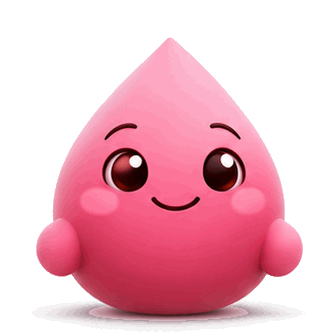
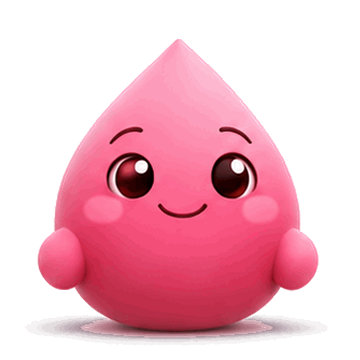
Cadi : 6 expressions selon la journée, animation de repos, nouvelle icône
Claude-Session: https://claude.ai/code/session_014Qi6w7WwDsBJMuCLvFmXQY

diff --git a/app.js b/app.js
@@ -89,11 +89,12 @@ function burst(pt, colors, n = 26, spread = 1.15) {
 }
 function hud(text, color, o = {}) {
   const h = document.createElement('div'); h.className = 'hud'; h.style.setProperty('--c', color);
-  const top = o.cadi ? `<span class="hud-cadi">${cadi({ size: 112, n: o.n || 7, done: o.n || 7, act: '', cls: 'hudc' })}<span class="hud-ok">${ic('check')}</span></span>`
+  const top = o.cadi ? `<span class="hud-cadi">${cadi({ size: 112, n: o.n || 7, done: o.n || 7, act: '', cls: 'hudc', expr: o.expr && !o.spin ? o.expr : '' })}<span class="hud-ok">${ic('check')}</span></span>`
     : `<svg viewBox="0 0 64 64" aria-hidden="true"><circle cx="32" cy="32" r="30"/><path d="M19 33l9 9 18-19"/></svg>`;
   h.innerHTML = `<div class="hud-in${o.cadi ? ' with-cadi' : ''}">${top}<b>${esc(text)}</b>${o.sub ? `<span class="hsub">${esc(o.sub)}</span>` : ''}</div>`;
   document.body.appendChild(h); haptic();
-  if (o.cadi) setTimeout(() => cadiSpin(h.querySelector('.cadi')), 120);
+  if (o.cadi && o.spin !== false) setTimeout(() => { const c = h.querySelector('.cadi'); if (o.expr) c.dataset.after = o.expr; cadiSpin(c); }, 120);
+  if (o.cadi && o.spin === false) { const c = h.querySelector('.cadi'); cadiJelly(c); }
   const d = o.cadi ? 1700 : 1150;
   setTimeout(() => h.classList.add('out'), REDUCED ? 800 : d); setTimeout(() => h.remove(), REDUCED ? 900 : d + 400);
 }
@@ -114,44 +115,74 @@ function haloSvg(n = 7, done = 5, cur = -1, late = false) {
   }
   return `<svg class="cadi-h" viewBox="0 0 100 100" aria-hidden="true">${r}</svg>`;
 }
-function cadi({ size = 64, n = 7, done = 5, cur = -1, late = false, mood = '', act = 'cadiPoke', cls = '' } = {}) {
-  return `<span class="cadi ${mood} ${cls}" style="--s:${size}px"${act ? ` data-act="${act}"` : ''} role="img" aria-label="Cadi, la mascotte de Cadence"><span class="cadi-b"><img class="still" src="cadi.png" alt="" draggable="false"><span class="spin"><img src="cadi-spin.webp" alt="" draggable="false"></span></span>${haloSvg(n, done, cur, late)}</span>`;
+const EXPR = ['calm', 'excited', 'worried', 'party', 'water', 'sleepy'];
+const exprSrc = e => EXPR.includes(e) ? `cadi-${e}.webp` : 'cadi.png';
+function cadi({ size = 64, n = 7, done = 5, cur = -1, late = false, mood = '', act = 'cadiPoke', cls = '', expr = '' } = {}) {
+  return `<span class="cadi ${mood} ${cls}" style="--s:${size}px" data-expr="${expr}" data-base="${expr}"${act ? ` data-act="${act}"` : ''} role="img" aria-label="Cadi, la mascotte de Cadence"><span class="cadi-b"><img class="still" src="${exprSrc(expr)}" alt="" draggable="false"><span class="idle"><img src="cadi-idle.webp" alt="" draggable="false" loading="lazy"></span><span class="spin"><img src="cadi-spin.webp" alt="" draggable="false"></span></span>${haloSvg(n, done, cur, late)}</span>`;
+}
+function setExpr(el, expr) {
+  if (!el) return; const img = el.querySelector('.still'), src = exprSrc(expr);
+  el.dataset.expr = expr || '';
+  if (img.getAttribute('src') === src) return;
+  if (REDUCED || !img.animate) { img.src = src; return; }
+  img.animate([{ transform: 'scale(1)', opacity: 1 }, { transform: 'scale(.86)', opacity: .2 }], { duration: 120, easing: 'ease-in' }).onfinish = () => { img.src = src; img.animate([{ transform: 'scale(.86)', opacity: .2 }, { transform: 'scale(1.06)', opacity: 1, offset: .6 }, { transform: 'scale(1)' }], { duration: 320, easing: 'cubic-bezier(.3,1.5,.5,1)' }); };
+}
+// De temps en temps, Cadi regarde autour d'elle (seulement dans son expression neutre).
+setInterval(() => {
+  if (REDUCED || document.hidden) return;
+  $$('.cadi:not(.spinning):not(.idling)').filter(c => !c.dataset.expr && c.offsetParent && Math.random() < .6).forEach(c => {
+    c.classList.add('idling'); const img = c.querySelector('.idle img');
+    const end = () => c.classList.remove('idling'); img.addEventListener('animationend', end, { once: true }); setTimeout(end, 2600);
+  });
+}, 6500);
+function cadiMood(t) {
+  const st = t ? status(t) : null, g = S.goals;
+  if (S.symptoms.some(s => s.level === 3 && daysBetween(s.date, today()) <= 1) || S.symptoms.filter(s => isEffect(s.type) && s.date === today() && s.level >= 2).length >= 2) return 'sleepy';
+  if (st && st.last && st.dueIn < 0) return 'worried';
+  if (st && st.last && st.dueIn === 0) return 'excited';
+  if (S.intake.some(i => i.date === today()) && ['p', 'w', 'f'].every(k => !(g[k] > 0) || intake(k) >= g[k])) return 'party';
+  if (S.symptoms.some(s => s.type === GOOD && s.date === today())) return 'calm';
+  return '';
 }
 function cadiFor(t, size = 60) {
-  if (!t) return cadi({ size, act: 'cadi' });
+  const expr = cadiMood(t);
+  if (!t) return cadi({ size, act: 'cadi', expr });
   const st = status(t);
-  if (!st.last) return cadi({ size, n: interval(t), done: 0, cur: 0, act: 'cadi' });
+  if (!st.last) return cadi({ size, n: interval(t), done: 0, cur: 0, act: 'cadi', expr });
   const late = st.dueIn < 0, due = st.dueIn === 0, n = st.n;
-  return cadi({ size, n, done: late || due ? n : Math.min(st.elapsed, n), cur: late || due ? -1 : st.elapsed, late, mood: late ? 'late' : due ? 'due' : '', act: 'cadi' });
+  return cadi({ size, n, done: late || due ? n : Math.min(st.elapsed, n), cur: late || due ? -1 : st.elapsed, late, mood: late ? 'late' : due ? 'due' : '', act: 'cadi', expr });
 }
 function cadiSpin(el) {
   if (!el || REDUCED) return;
   el.classList.remove('spinning', 'jelly'); void el.offsetWidth; el.classList.add('spinning');
-  const img = el.querySelector('.spin img'); img.addEventListener('animationend', () => el.classList.remove('spinning'), { once: true });
+  const img = el.querySelector('.spin img'); img.addEventListener('animationend', () => { el.classList.remove('spinning'); if (el.dataset.after !== undefined) { setExpr(el, el.dataset.after); delete el.dataset.after; } }, { once: true });
 }
 function cadiJelly(el) { if (!el || REDUCED) return; el.classList.remove('jelly'); void el.offsetWidth; el.classList.add('jelly'); setTimeout(() => el.classList.remove('jelly'), 700); }
 let cadiTaps = 0, sayTimer;
-function say(text) {
+function say(text, expr) {
   const b = $('#say'); if (!b) return;
+  const c = $('.hello .cadi'); if (c) setExpr(c, expr !== undefined ? expr : c.dataset.base);
   b.hidden = false; b.classList.remove('out'); b.textContent = text; void b.offsetWidth; b.style.animation = 'none'; void b.offsetWidth; b.style.animation = '';
   clearTimeout(sayTimer); sayTimer = setTimeout(hideSay, 5200);
 }
-function hideSay() { const b = $('#say'); if (!b || b.hidden) return; b.classList.add('out'); setTimeout(() => { b.hidden = true; b.classList.remove('out'); }, 250); }
+function hideSay() { const b = $('#say'); if (!b || b.hidden) return; b.classList.add('out'); const c = $('.hello .cadi'); if (c) setExpr(c, c.dataset.base); setTimeout(() => { b.hidden = true; b.classList.remove('out'); }, 250); }
 function cadiTips() {
   const tips = [], t = T(focusT) || active()[0], st = t ? status(t) : null, g = S.goals, h = new Date().getHours();
-  if (t && st && st.last && st.dueIn === 0) tips.push(`C’est le jour J ! Zone conseillée : ${siteLabel(rotation(t.id).next).toLowerCase()}.`);
-  if (t && st && st.last && st.dueIn < 0) tips.push(`Ton injection était prévue ${relDay(new Date(st.due))}. En cas de doute, la notice et ton pharmacien sont là.`);
-  if (t && st && !st.last) tips.push('Note ta première injection et je lance le compte à rebours.');
-  const p = t && penInfo(t); if (p && p.exp && p.expIn >= 0 && p.expIn <= 3 && !p.done) tips.push(`Ton stylo est à jeter ${relDay(p.exp)}.`);
-  if (S.appt && daysBetween(today(), S.appt) >= 0 && daysBetween(today(), S.appt) <= 7) tips.push(`Rendez-vous ${relDay(S.appt)}. Tes questions sont prêtes ?`);
+  if (S.symptoms.some(s => s.level === 3 && daysBetween(s.date, today()) <= 1)) tips.push(['Pas facile en ce moment. Repose-toi, bois par petites gorgées, et si ça persiste ou t’inquiète, parles-en à ton médecin.', 'sleepy']);
+  if (t && st && st.last && st.dueIn === 0) tips.push([`C’est le jour J ! Zone conseillée : ${siteLabel(rotation(t.id).next).toLowerCase()}.`, 'excited']);
+  if (t && st && st.last && st.dueIn < 0) tips.push([`Ton injection était prévue ${relDay(new Date(st.due))}. En cas de doute, la notice et ton pharmacien sont là.`, 'worried']);
+  if (t && st && !st.last) tips.push(['Note ta première injection et je lance le compte à rebours.', 'excited']);
+  const p = t && penInfo(t); if (p && p.exp && p.expIn >= 0 && p.expIn <= 3 && !p.done) tips.push([`Ton stylo est à jeter ${relDay(p.exp)}.`, 'worried']);
+  if (S.appt && daysBetween(today(), S.appt) >= 0 && daysBetween(today(), S.appt) <= 7) tips.push([`Rendez-vous ${relDay(S.appt)}. Tes questions sont prêtes ?`, '']);
   const allOk = ['p', 'w', 'f'].every(k => !(g[k] > 0) || intake(k) >= g[k]);
-  if (allOk && S.intake.some(i => i.date === today())) tips.push('Objectifs du jour atteints. Bravo ✨');
+  if (allOk && S.intake.some(i => i.date === today())) tips.push(['Objectifs du jour atteints. Bravo ✨', 'party']);
   else {
-    if (g.w > 0 && h >= 12 && intake('w') < g.w * .5) tips.push(`Un verre d’eau ? Tu en es à ${habFmt('w', intake('w'))} aujourd’hui.`);
-    if (g.p > 0 && h >= 12 && intake('p') < g.p * .5) tips.push(`Une portion de protéines au prochain repas ? ${habFmt('p', intake('p'))} sur ${g.p} g.`);
+    if (g.w > 0 && h >= 12 && intake('w') < g.w * .5) tips.push([`Un verre d’eau ? Tu en es à ${habFmt('w', intake('w'))} aujourd’hui.`, 'water']);
+    if (g.p > 0 && h >= 12 && intake('p') < g.p * .5) tips.push([`Une portion de protéines au prochain repas ? ${habFmt('p', intake('p'))} sur ${g.p} g.`, '']);
   }
-  if (g.s > 0 && sessionsWeek() < g.s && new Date().getDay() >= 4) { const r = g.s - sessionsWeek(); tips.push(`Encore ${r} séance${r > 1 ? 's' : ''} de renforcement cette semaine. Même courte, elle compte.`); }
-  return tips.length ? tips : ['Un ressenti à noter ? Ça aide beaucoup pour le rendez-vous.', 'Tout reste ici, sur ton téléphone. 🔒', 'Petit à petit, à ton rythme.', 'Touche le + pour noter ce que tu veux.', 'Pense à faire une sauvegarde de temps en temps, dans Plus.'];
+  if (g.s > 0 && sessionsWeek() < g.s && new Date().getDay() >= 4) { const r = g.s - sessionsWeek(); tips.push([`Encore ${r} séance${r > 1 ? 's' : ''} de renforcement cette semaine. Même courte, elle compte.`, 'excited']); }
+  if (S.symptoms.some(s => s.type === GOOD && s.date === today())) tips.push(['Une journée sans souci, ça fait du bien.', 'calm']);
+  return tips.length ? tips : [['Un ressenti à noter ? Ça aide beaucoup pour le rendez-vous.', ''], ['Tout reste ici, sur ton téléphone. 🔒', 'calm'], ['Petit à petit, à ton rythme.', 'calm'], ['Pense à boire régulièrement, surtout s’il fait chaud.', 'water'], ['Pense à faire une sauvegarde de temps en temps, dans Plus.', '']];
 }
 
 const SEGPREV = new Map();
@@ -449,8 +480,8 @@ function spark(vals, color) {
   const p = vals.map((v, i) => [i / (vals.length - 1) * 100, 26 - (v - lo) / r * 22]);
   return `<svg class="spark" viewBox="0 0 100 28" preserveAspectRatio="none" aria-hidden="true"><path d="${mono(p)}" fill="none" stroke="${color}" stroke-width="2.2" stroke-linecap="round" vector-effect="non-scaling-stroke"/></svg>`;
 }
-function alertBox({ c = 'var(--niv)', icon = 'info', title, text, acts = [], dismiss }) {
-  return `<div class="alert" style="--c:${c}">${ic(icon)}<div style="flex:1;padding-right:${dismiss ? 26 : 0}px"><b>${title}</b>${text ? `<p>${text}</p>` : ''}${acts.length ? `<div class="acts2">${acts.map(a => `<button data-act="${a.act}"${a.id ? ` data-id="${esc(a.id)}"` : ''}>${a.label}</button>`).join('')}</div>` : ''}</div>${dismiss ? `<button class="x dismiss" data-act="dismiss" data-id="${esc(dismiss)}" aria-label="Masquer">${ic('close')}</button>` : ''}</div>`;
+function alertBox({ c = 'var(--niv)', icon = 'info', title, text, acts = [], dismiss, cadi: ce }) {
+  return `<div class="alert${ce ? ' with-cadi' : ''}" style="--c:${c}">${ce ? cadi({ size: 52, expr: ce }) : ic(icon)}<div style="flex:1;padding-right:${dismiss ? 26 : 0}px"><b>${title}</b>${text ? `<p>${text}</p>` : ''}${acts.length ? `<div class="acts2">${acts.map(a => `<button data-act="${a.act}"${a.id ? ` data-id="${esc(a.id)}"` : ''}>${a.label}</button>`).join('')}</div>` : ''}</div>${dismiss ? `<button class="x dismiss" data-act="dismiss" data-id="${esc(dismiss)}" aria-label="Masquer">${ic('close')}</button>` : ''}</div>`;
 }
 
 /* ---------- Rendu ---------- */
@@ -493,7 +524,8 @@ function vHome() {
   mounts.push(() => {
     const k = 'cadi-hello-' + today(), t = T(focusT), st = t ? status(t) : null;
     let seen = false; try { seen = sessionStorage.getItem(k); sessionStorage.setItem(k, '1'); } catch (e) { }
-    if (!seen && st && st.last && st.dueIn <= 0) setTimeout(() => { say(cadiTips()[0]); cadiJelly($('.hello .cadi')); }, 900);
+    const strong = S.symptoms.some(s => s.level === 3 && daysBetween(s.date, today()) <= 1);
+    if (!seen && ((st && st.last && st.dueIn <= 0) || strong)) setTimeout(() => { const [tx, ex] = cadiTips()[0]; say(tx, ex); cadiJelly($('.hello .cadi')); }, 900);
   });
   if (!S.treatments.length) return h + `<div class="card empty">${cadi({ size: 84 })}<b>Aucun traitement en cours</b><p>Ajoute ton traitement pour suivre tes injections, ta rotation et ton niveau estimé.</p><button class="btn" data-act="newT">Ajouter un traitement</button></div>` + habitsCard();
   if (!act.length) { h += maintenance(); h += homeAlerts(null); h += habitsCard(); h += `<div class="grid">${tileWeight()}${tileFeel()}</div>`; return h + lateAlerts(); }
@@ -544,7 +576,7 @@ function hero(t, st) {
 function homeAlerts(t, st) {
   let h = '';
   if (t && st && st.last && st.dueIn < 0) {
-    h += alertBox({ c: 'var(--red)', icon: 'info', title: 'Injection oubliée ou décalée ?', text: (MISS[t.preset] || 'Les consignes en cas d’oubli figurent dans la notice de ton traitement.') + ' En cas de doute, demande à ton pharmacien.', acts: [{ label: 'Noter l’injection', act: 'newInj', id: t.id }] });
+    h += alertBox({ c: 'var(--red)', icon: 'info', cadi: 'worried', title: 'Injection oubliée ou décalée ?', text: (MISS[t.preset] || 'Les consignes en cas d’oubli figurent dans la notice de ton traitement.') + ' En cas de doute, demande à ton pharmacien.', acts: [{ label: 'Noter l’injection', act: 'newInj', id: t.id }] });
   }
   if (t && st && st.last) {
     const inj = injOf(t.id), last = inj[0], prev = inj[1];
@@ -557,7 +589,7 @@ function homeAlerts(t, st) {
     }
   }
   const strong = S.symptoms.find(s => s.level === 3 && daysBetween(s.date, today()) <= 3);
-  if (strong) h += alertBox({ c: 'var(--red)', icon: 'alert', title: `Ressenti fort : ${esc(strong.type.toLowerCase())}`, text: 'S’il persiste ou t’inquiète, parles-en à ton médecin ou ton pharmacien. En cas d’urgence, appelle le 15.', acts: [{ label: 'Quand consulter', act: 'info', id: 'signes' }, { label: 'Ajouter à mes questions', act: 'qFrom', id: strong.id }] });
+  if (strong) h += alertBox({ c: 'var(--red)', icon: 'alert', cadi: 'sleepy', title: `Ressenti fort : ${esc(strong.type.toLowerCase())}`, text: 'S’il persiste ou t’inquiète, parles-en à ton médecin ou ton pharmacien. En cas d’urgence, appelle le 15.', acts: [{ label: 'Quand consulter', act: 'info', id: 'signes' }, { label: 'Ajouter à mes questions', act: 'qFrom', id: strong.id }] });
   return h;
 }
 function lateAlerts() {
@@ -1046,7 +1078,7 @@ function habBody(k) {
   const val = isS ? sessionsWeek() : intake(k), p = g > 0 ? Math.min(1, val / g) : 0;
   const list = isS ? S.intake.filter(i => i.k === 's' && i.date >= weekStart()) : S.intake.filter(i => i.k === k && i.date === today());
   return `<div class="seg mini-seg">${['p', 'w', 'f', 's'].map(x => `<button data-habk="${x}" aria-pressed="${x === k}">${HAB[x].label}</button>`).join('')}</div>
-  <div style="--c:${H.color}"><p class="hab-total"><b>${cnt('habs:' + k, val, k === 'w' ? 'L' : k === 's' ? 'int' : 'g')}</b><span>${g > 0 ? '/ ' + habFmt(k, g) : ''}${isS ? ' séance' + (g > 1 ? 's' : '') + ' cette semaine' : ' aujourd’hui'}</span></p><div class="hbar"><i data-wk="habs${k}" data-w="${(p * 100).toFixed(1)}" style="width:${(p * 100).toFixed(0)}%"></i></div>
+  <div style="--c:${H.color}">${k === 'w' ? `<div class="hab-cadi">${cadi({ size: 76, expr: 'water' })}</div>` : ''}<p class="hab-total"><b>${cnt('habs:' + k, val, k === 'w' ? 'L' : k === 's' ? 'int' : 'g')}</b><span>${g > 0 ? '/ ' + habFmt(k, g) : ''}${isS ? ' séance' + (g > 1 ? 's' : '') + ' cette semaine' : ' aujourd’hui'}</span></p><div class="hbar"><i data-wk="habs${k}" data-w="${(p * 100).toFixed(1)}" style="width:${(p * 100).toFixed(0)}%"></i></div>
   <p class="lab">${isS ? 'Ajouter' : 'Ajouter une portion'}</p>
   <div class="portions">${H.portions.map(([l, v]) => `<button data-add="${k}|${v}|${esc(l)}"><b>${esc(l)}</b><span>${isS ? '+1' : '≈ ' + (k === 'w' ? fr(v, 0) + ' mL' : fr(v, 0) + ' g')}</span></button>`).join('')}</div>
   ${isS ? '' : `<div class="custom"><div class="group"><div class="frow"><label for="h-v">Autre</label><input id="h-v" inputmode="decimal" placeholder="–" enterkeyhint="done"><span class="unit">${k === 'w' ? 'mL' : 'g'}</span></div></div><button class="btn" style="--c:${H.color}" data-act="habCustom" data-id="${k}">Ajouter</button></div>`}
@@ -1068,7 +1100,7 @@ function goalCheck(it, pt) {
   setTimeout(() => {
     burst(pt, [H.color, H.color, '#FFD60A', '#FFFFFF']); haptic();
     const all = ['p', 'w', 'f'].every(x => !(S.goals[x] > 0) || intake(x) >= S.goals[x]);
-    if (all && k !== 's') { setTimeout(() => { hud('Objectifs du jour atteints', 'var(--fib)', { cadi: true, sub: 'Protéines, eau et fibres ✨' }); burst({ x: innerWidth / 2, y: innerHeight * .42 }, ['var(--prot)', 'var(--eau)', 'var(--fib)', '#FFD60A'], 42, 1.8); }, 500); }
+    if (all && k !== 's') { setTimeout(() => { hud('Objectifs du jour atteints', 'var(--fib)', { cadi: true, expr: 'party', spin: false, sub: 'Protéines, eau et fibres ✨' }); burst({ x: innerWidth / 2, y: innerHeight * .42 }, ['var(--prot)', 'var(--eau)', 'var(--fib)', '#FFD60A'], 42, 1.8); }, 500); }
     else toast(k === 's' ? 'Objectif de la semaine atteint 💪' : `Objectif ${H.label.toLowerCase()} atteint 🎉`);
   }, 120);
 }
@@ -1368,7 +1400,7 @@ function vOnboard() {
   }
   if (s === 'consent') {
     title = 'Avant de commencer';
-    body = `<div class="cadi-row">${cadi({ size: 64 })}<p>Je suis Cadi. Je t’aide à garder le rythme, sans jamais remplacer ton médecin.</p></div>`;
+    body = `<div class="cadi-row">${cadi({ size: 64, expr: 'calm' })}<p>Je suis Cadi. Je t’aide à garder le rythme, sans jamais remplacer ton médecin.</p></div>`;
     body += `<div class="info">${ic('heart')}<div><b>Un carnet, pas un médecin</b><span>Cadence ne recommande aucune dose. Les doses et le rythme sont ceux de ta prescription.</span></div></div>
     <div class="info">${ic('lock')}<div><b>Tes données restent ici</b><span>Elles sont enregistrées dans ce navigateur, sur ce téléphone, et nulle part ailleurs.</span></div></div>
     <button class="switch-row" data-act="obOk" role="switch" aria-checked="${ob.ok}" style="margin-top:6px"><span>J’ai compris que Cadence ne remplace pas un avis médical.</span><i class="switch"></i></button>`;
@@ -1407,7 +1439,7 @@ function obDone() {
   S.profile.name = ob.name.trim();
   if (ob.goal > 0) S.profile.goal = String(ob.goal).replace('.', ',');
   S.onboarded = true; save(); ob = null; obStep = 0; obShown = -1; tab = 'home'; firstHome = true; animIn = true;
-  render(); scrollTo(0, 0); hud('C’est prêt !', 'var(--inj)', { cadi: true, n: interval(t), sub: 'Bienvenue dans Cadence' }); setTimeout(() => burst({ x: innerWidth / 2, y: innerHeight * .4 }, ['var(--inj)', 'var(--prot)', 'var(--eau)', 'var(--fib)', '#FFD60A'], 36, 1.6), 250);
+  render(); scrollTo(0, 0); hud('C’est prêt !', 'var(--inj)', { cadi: true, expr: 'excited', n: interval(t), sub: 'Bienvenue dans Cadence' }); setTimeout(() => burst({ x: innerWidth / 2, y: innerHeight * .4 }, ['var(--inj)', 'var(--prot)', 'var(--eau)', 'var(--fib)', '#FFD60A'], 36, 1.6), 250);
 }
 
 /* ---------- Actions ---------- */
@@ -1441,7 +1473,8 @@ const A = {
   cadi(id, el) {
     cadiTaps++; haptic();
     if (cadiTaps % 3 === 0) cadiSpin(el); else cadiJelly(el);
-    const tips = cadiTips(); say(tips[(cadiTaps - 1) % tips.length]);
+    const tips = cadiTips(), [tx, ex] = tips[(cadiTaps - 1) % tips.length];
+    if (cadiTaps % 3 === 0) { el.dataset.after = ex; say(tx, el.dataset.expr); } else say(tx, ex);
   },
   cadiPoke(id, el) { haptic(); cadiSpin(el); },
   replayRing(id) { PREV.delete('ring:' + id); PREV.delete('late:' + id); firstHome = true; haptic(); render(); },
@@ -1464,7 +1497,7 @@ const A = {
     advancePen(t, date);
     focusT = tid; save(); closeSheet(); firstHome = true; PREV.delete('ring:' + tid);
     const p = penInfo(t);
-    hud('Injection notée', t.color, { cadi: true, n: interval(t), sub: p ? `Dose ${p.used} sur ${p.per} du stylo` : `Prochaine ${relDay(new Date(D(date).getTime() + interval(t) * DAY))}` });
+    hud('Injection notée', t.color, { cadi: true, expr: 'excited', n: interval(t), sub: p ? `Dose ${p.used} sur ${p.per} du stylo` : `Prochaine ${relDay(new Date(D(date).getTime() + interval(t) * DAY))}` });
     setTimeout(() => { if (tab !== 'home') { tabDir = -1; tab = 'home'; tabPop = true; renderTabs(); } render(); scrollTo({ top: 0, behavior: REDUCED ? 'auto' : 'smooth' }); }, REDUCED ? 0 : 380);
   },
   newPen(id) { const t = T(id); t.pen = null; save(); closeSheet(); render(); toast('Le nouveau stylo démarrera à ta prochaine injection'); },

diff --git a/style.css b/style.css
@@ -323,8 +323,8 @@ svg.chart{width:100%;height:auto;display:block;margin-top:8px;overflow:visible;t
 .hab .bubble .ic{width:18px;height:18px}
 .hab .m{flex:1;min-width:0}
 .hab .top{display:flex;justify-content:space-between;align-items:baseline;gap:8px;font-size:15px;font-weight:600}
-.hab .top span{font-family:var(--round);font-weight:600;color:var(--label2);font-size:14px;white-space:nowrap}
-.hab .top span b{color:var(--label);font-weight:700}
+.hab .top>span{font-family:var(--round);font-weight:600;color:var(--label2);font-size:14px;white-space:nowrap}
+.hab .top>span b{color:var(--label);font-weight:700}
 .hbar{height:6px;border-radius:3px;background:var(--fill);margin-top:7px;overflow:hidden}
 .hbar i{display:block;height:100%;border-radius:3px;background:var(--c);transition:width .35s ease}
 .plus{flex:none;width:38px;height:38px;border-radius:50%;background:color-mix(in srgb,var(--c) 15%,transparent);color:var(--c);display:grid;place-items:center;transition:transform .12s}
@@ -332,7 +332,7 @@ svg.chart{width:100%;height:auto;display:block;margin-top:8px;overflow:visible;t
 .plus .ic{width:20px;height:20px;stroke-width:2.6}
 .hab-total{text-align:center;margin:6px 0 4px}
 .hab-total b{font-family:var(--round);font-size:52px;font-weight:700;letter-spacing:-.02em;color:var(--c)}
-.hab-total span{font-size:18px;font-weight:600;color:var(--label2);margin-left:4px}
+.hab-total>span{font-size:18px;font-weight:600;color:var(--label2);margin-left:4px}
 .hab-total+.hbar{height:8px;margin:6px 8px 4px}
 .portions{display:grid;grid-template-columns:1fr 1fr;gap:8px}
 .portions button{background:var(--sheet-card);border-radius:13px;padding:11px 12px;text-align:left;display:flex;flex-direction:column;gap:2px;min-height:62px;transition:transform .1s}
@@ -692,3 +692,17 @@ html.sheet-open #bar{opacity:0}
 .hud-ok .ic{width:17px;height:17px;stroke-width:3.2}
 .hud-ok .ic path{stroke-dasharray:24;stroke-dashoffset:24;animation:ck .3s 1.2s ease-out forwards}
 @media (prefers-color-scheme:dark){.hud-ok{box-shadow:0 0 0 3px rgba(44,44,46,.9)}}
+
+/* Cadi : animation de repos (regard qui bouge) et expressions */
+.cadi .idle{position:absolute;inset:0;overflow:hidden;visibility:hidden}
+.cadi .idle img{width:1200%;max-width:none}
+.cadi.idling .still{visibility:hidden}
+.cadi.idling .idle{visibility:visible}
+.cadi.idling .idle img{animation:cadispin 2.04s steps(12) 1}
+.cadi .still{transform-origin:50% 85%}
+.cadi[data-expr="excited"] .cadi-h{filter:drop-shadow(0 0 2.5px rgba(255,92,141,.75))}
+.cadi[data-expr="sleepy"] .cadi-b{animation:cadibreath 4s ease-in-out infinite}
+@keyframes cadibreath{50%{transform:scale(1.025,.985)}}
+.hab-cadi{display:flex;justify-content:center;margin:2px 0 -6px}
+.alert.with-cadi{align-items:center}
+.alert.with-cadi>.cadi{margin:-4px -2px -4px -6px}

diff --git a/sw.js b/sw.js
@@ -1,4 +1,4 @@
-const C='cadence-v5';const A=['./','index.html','style.css?v=5','app.js?v=5','cadi.png','cadi-spin.webp','icon-180.png','manifest.webmanifest'];
+const C='cadence-v6';const A=['./','index.html','style.css?v=6','app.js?v=6','cadi.png','cadi-spin.webp','cadi-idle.webp','cadi-calm.webp','cadi-excited.webp','cadi-worried.webp','cadi-party.webp','cadi-water.webp','cadi-sleepy.webp','icon-180.png','manifest.webmanifest'];
 self.addEventListener('install',e=>{e.waitUntil(caches.open(C).then(c=>c.addAll(A)));self.skipWaiting()});
 self.addEventListener('activate',e=>{e.waitUntil(caches.keys().then(k=>Promise.all(k.filter(x=>x!==C).map(x=>caches.delete(x)))));self.clients.claim()});
 self.addEventListener('fetch',e=>{if(e.request.method!=='GET')return;e.respondWith(fetch(e.request).then(r=>{const cp=r.clone();if(r.ok&&new URL(e.request.url).origin===location.origin)caches.open(C).then(c=>c.put(e.request,cp));return r}).catch(()=>caches.match(e.request).then(r=>r||caches.match('index.html'))))});

diff --git a/index.html b/index.html
@@ -16,7 +16,7 @@
 <link rel="preload" as="image" href="cadi-spin.webp">
 <link rel="preload" as="image" href="cadi.png">
 <link rel="apple-touch-icon" href="icon-180.png">
-<link rel="stylesheet" href="style.css?v=5">
+<link rel="stylesheet" href="style.css?v=6">
 </head>
 <body>
 <header id="bar" aria-hidden="true"><span></span></header>
@@ -26,6 +26,6 @@
 <input type="file" id="file" accept="application/json,.json" hidden>
 <input type="file" id="photo-in" accept="image/*" hidden>
 <div id="report" hidden></div>
-<script src="app.js?v=5"></script>
+<script src="app.js?v=6"></script>
 </body>
 </html>
